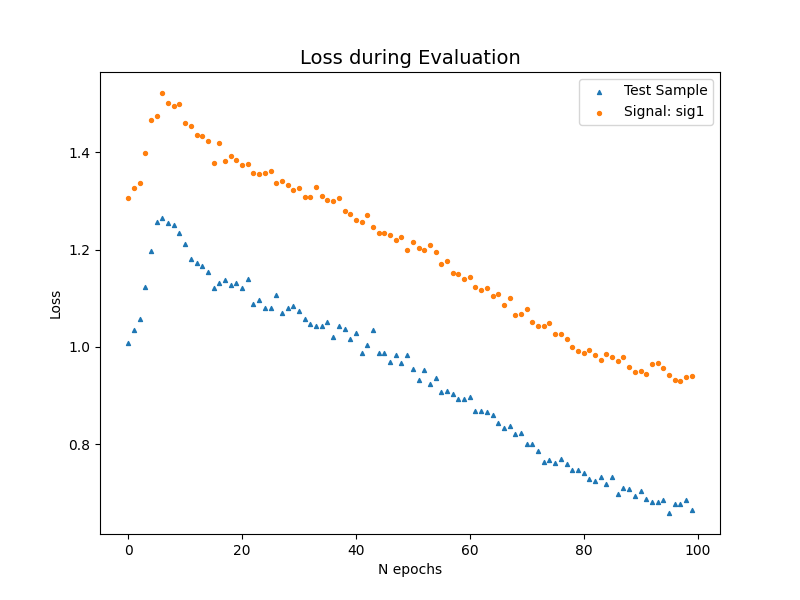
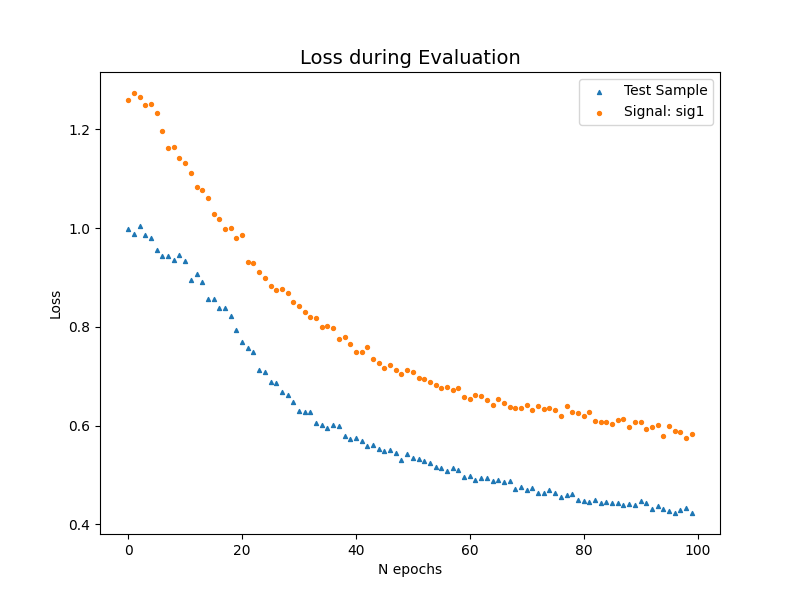
Training with sig1 insertion and percentage 0.005

diff --git a/train.py b/train.py
@@ -57,7 +57,7 @@ model = AutoEncoder(input_dim = input_dim).to(device)
 N_epochs = 100
 batch_size = 2048
 learning_rate = 0.0002
-alpha = 100
+alpha = 0
 
 # dataloaders
 trainLoader = DataLoader(trainSet, batch_size=batch_size, shuffle=True, num_workers=4)
@@ -88,7 +88,7 @@ for epoch in range(N_epochs) :
     sigLoss.append(test(model, testLoader_sig, loss_function, epoch))
 
 # Save model
-torch.save(model.state_dict(), f"models/model_parameters_{signal}_{(int(pct * 1000) % 100):02d}.pth")
+torch.save(model.state_dict(), f"models/model_parameters_{signal}_{(int(pct * 1000) % 100):02d}_NODISCO_WEIGHTS.pth")
 
 # Create Loss per Epochs
 fig, axes = plt.subplots(figsize=(8,6))
